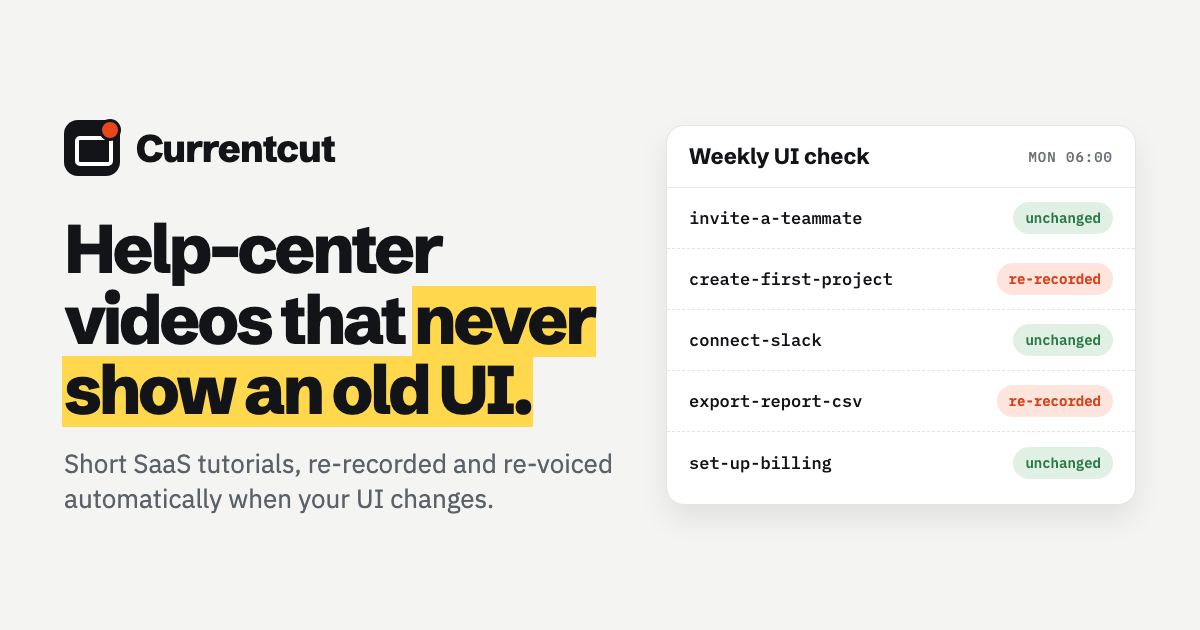
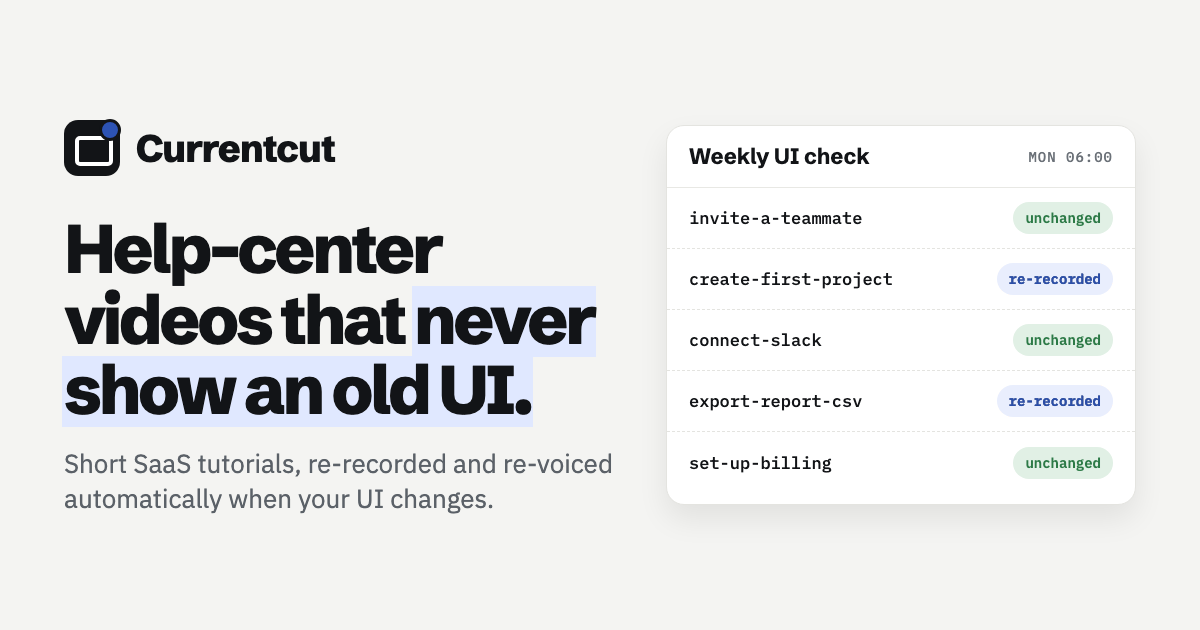
feat: pricing tabs, navy palette, real video in hero, founder section

diff --git a/index.html b/index.html
@@ -28,23 +28,25 @@
 /* Layout: a spec sheet. Mono labels in a narrow left rail, content on the right;
    the hero pairs the promise with a weekly-check report, the product's real output. */
 :root{
-  --paper:#f4f5f2; --sheet:#ffffff; --ink:#121417; --mute:#5a6068; --rule:#dfe1dc;
-  --rec:#e8461b; --rec-ink:#ffffff; --rec-soft:#fde9e2;
+  --paper:#f5f6f8; --sheet:#ffffff; --ink:#0f1524; --mute:#586074; --rule:#dde1e8;
+  --rec:#1f3fae; --rec-ink:#ffffff; --rec-soft:#e7ecfb;
   --ok:#2f7d55; --ok-soft:#e3f1e9; --mark:#ffd84d;
   --f-display:"Schibsted Grotesk","Helvetica Neue",Arial,sans-serif;
   --f-body:"IBM Plex Sans",system-ui,-apple-system,"Segoe UI",sans-serif;
   --f-mono:"IBM Plex Mono",ui-monospace,SFMono-Regular,Menlo,monospace;
   --r:10px;
 }
-@media (prefers-color-scheme: dark){:root:not([data-theme="light"]){
-  --paper:#0f1112; --sheet:#171a1c; --ink:#eceeea; --mute:#9aa1a6; --rule:#2a2e31;
-  --rec:#ff6a3d; --rec-ink:#140804; --rec-soft:#3a1d13; --ok:#6cc596; --ok-soft:#14291e; --mark:#c9a92a;
-  color-scheme:dark}}
 :root[data-theme="dark"]{
-  --paper:#0f1112; --sheet:#171a1c; --ink:#eceeea; --mute:#9aa1a6; --rule:#2a2e31;
-  --rec:#ff6a3d; --rec-ink:#140804; --rec-soft:#3a1d13; --ok:#6cc596; --ok-soft:#14291e; --mark:#c9a92a;
+  --paper:#0d111c; --sheet:#151a28; --ink:#eceef4; --mute:#9aa3b5; --rule:#262d3f;
+  --rec:#8aa4ff; --rec-ink:#0a1020; --rec-soft:#1a2547; --ok:#6cc596; --ok-soft:#14291e; --mark:#c9a92a;
   color-scheme:dark}
 
+.ptabs{display:inline-flex;gap:4px;margin-top:28px;padding:4px;border:1px solid var(--rule);border-radius:999px;background:var(--sheet)}
+.ptabs button{font:600 .92rem var(--f-body);color:var(--mute);background:none;border:0;border-radius:999px;padding:9px 18px;cursor:pointer}
+.ptabs button[aria-selected="true"]{background:var(--ink);color:var(--paper)}
+.js [data-panel][hidden]{display:none}
+.about{display:grid;gap:12px;max-width:44em}
+.about p{color:var(--mute)}
 *{box-sizing:border-box}
 html{scroll-behavior:smooth}
 body{margin:0;background:var(--paper);color:var(--ink);font:400 17px/1.6 var(--f-body);-webkit-font-smoothing:antialiased}
@@ -63,6 +65,10 @@ a{color:inherit}
 
 .btn{display:inline-flex;align-items:center;gap:10px;padding:13px 20px;border-radius:999px;background:var(--rec);color:var(--rec-ink);text-decoration:none;font-weight:600;font-size:.98rem;transition:transform .15s ease}
 .btn:hover{transform:translateY(-1px)}
+.btn:active{transform:translateY(0) scale(.98)}
+.plan{transition:transform .2s ease,box-shadow .2s ease}
+.plan:hover{transform:translateY(-2px);box-shadow:0 18px 36px -24px rgba(0,0,0,.35)}
+.hero-film{box-shadow:0 24px 56px -30px rgba(0,0,0,.45)}
 .btn .dot{width:8px;height:8px;border-radius:50%;background:currentColor}
 .btn.line{background:transparent;color:var(--ink);box-shadow:inset 0 0 0 1.5px var(--rule)}
 .btns{display:flex;flex-wrap:wrap;gap:12px}
@@ -81,8 +87,8 @@ nav .btn{padding:9px 16px;font-size:.9rem}
 .hero{padding-block:72px 64px}
 .hero .wrap{display:grid;grid-template-columns:1.05fr .95fr;gap:56px;align-items:center}
 .hero .sub{font-size:1.18rem;color:var(--mute);max-width:34em;margin-block:22px 30px}
-.hero .facts{display:flex;flex-wrap:wrap;gap:8px 20px;margin-top:26px}
-.hero mark{background:linear-gradient(transparent 58%,var(--mark) 58%);color:inherit;padding:0 .05em}
+.hero .facts{display:flex;flex-wrap:wrap;gap:6px 18px;margin-top:26px;text-transform:none;letter-spacing:0;font-size:.9rem}
+.hero mark{background:none;color:var(--rec);padding:0}
 
 .report{background:var(--sheet);border:1px solid var(--rule);border-radius:14px;box-shadow:0 1px 0 var(--rule),0 24px 48px -28px rgba(0,0,0,.35);overflow:hidden;min-width:0}
 .report header{display:flex;justify-content:space-between;align-items:baseline;gap:12px;padding:16px 20px;border-bottom:1px solid var(--rule)}
@@ -202,7 +208,7 @@ footer.site .legal{font:400 .8rem/1.6 var(--f-mono)}
   .steps li{grid-template-columns:1fr;gap:6px}
   .plan{padding:22px}
 }
-@media (prefers-reduced-motion:reduce){html{scroll-behavior:auto}.btn{transition:none}}
+@media (prefers-reduced-motion:reduce){html{scroll-behavior:auto}.btn,.plan{transition:none}.plan:hover{transform:none}}
 </style>
 </head>
 <body>
@@ -211,13 +217,13 @@ footer.site .legal{font:400 .8rem/1.6 var(--f-mono)}
   <a class="logo" href="#top"><i aria-hidden="true"></i>Currentcut</a>
   <div class="links">
     <a href="#demo">Demo</a><a href="#how">How it works</a><a href="#pricing">Pricing</a><a href="#faq">FAQ</a>
-    <a class="btn" href="https://tally.so/r/zEj2Aq?source=site">Get started</a>
+    <a class="btn" href="https://tally.so/r/zEj2Aq?source=site">Get a free sample</a>
   </div>
 </div></nav>
 
 <header class="hero" id="top"><div class="wrap">
   <div>
-    <p class="label">Tutorial videos for B2B SaaS help centers</p>
+    <p class="label">Done-for-you tutorial videos for B2B SaaS help centers</p>
     <h1 style="margin-top:18px">Help-center videos that <mark>never show an old UI.</mark></h1>
     <p class="sub">We make short product tutorials for your help center, then check your UI every week. When a screen changes, we re-record and re-voice the affected videos. You approve. You never record or edit anything.</p>
     <div class="btns">
@@ -227,17 +233,9 @@ footer.site .legal{font:400 .8rem/1.6 var(--f-mono)}
     <div class="facts label"><span>50–90 s per video</span><span>Voice-over synced to clicks</span><span>Written guide included</span></div>
   </div>
 
-  <article class="report" aria-label="Example weekly UI check report">
-    <header><strong>Weekly UI check</strong><span class="label">Example · Mon 06:00 UTC</span></header>
-    <ol>
-      <li><span>invite-a-teammate</span><span class="chip ok">unchanged</span></li>
-      <li><span>create-first-project</span><span class="chip ch">step 3 changed · re-recorded</span></li>
-      <li><span>connect-slack-integration</span><span class="chip ok">unchanged</span></li>
-      <li><span>export-report-as-csv</span><span class="chip ch">button renamed · re-recorded</span></li>
-      <li><span>set-up-billing</span><span class="chip ok">unchanged</span></li>
-    </ol>
-    <footer><span>12 flows checked · 2 changed</span><span>2 approvals sent</span></footer>
-  </article>
+  <figure class="film hero-film" style="margin:0">
+    <video controls preload="metadata" playsinline poster="hero-poster.jpg"><source src="sample-guide.mp4" type="video/mp4">Your browser cannot play this video.</video>
+  </figure>
 </div></header>
 
 <section id="demo"><div class="wrap row">
@@ -247,7 +245,6 @@ footer.site .legal{font:400 .8rem/1.6 var(--f-mono)}
     <p class="lead">First, a tutorial recorded against an earlier version of an app. Then the same video after the interface changed and Currentcut regenerated it: new screens, new voice-over, no manual work.</p>
     <figure class="film" style="margin-inline:0">
       <video controls preload="metadata" playsinline poster="poster.jpg"><source src="before_after.mp4" type="video/mp4">Your browser cannot play this video.</video>
-      <figcaption><span>Before → after, regenerated automatically</span><span>8.8 min of machine time</span></figcaption>
     </figure>
     <div class="guide-demo">
       <div>
@@ -305,6 +302,11 @@ footer.site .legal{font:400 .8rem/1.6 var(--f-mono)}
     <h2>Start with one project. Keep it current with a plan.</h2>
     <p class="lead">Every scope below is fixed, so you can book with a 3-minute form. Booking takes no payment: we reply within one business day with the flows, the delivery date and the price, and you pay once you have approved that scope, before work starts. A call is optional.</p>
 
+    <div class="ptabs" role="tablist" aria-label="Pricing type">
+      <button type="button" role="tab" aria-selected="true" data-tab="projects">One-off projects</button>
+      <button type="button" role="tab" aria-selected="false" data-tab="plans">Monthly plans</button>
+    </div>
+    <div data-panel="projects">
     <h3 class="group">One-off projects</h3>
     <div class="plans four">
       <div class="plan">
@@ -382,6 +384,8 @@ footer.site .legal{font:400 .8rem/1.6 var(--f-mono)}
       </div>
     </div>
 
+    </div>
+    <div data-panel="plans">
     <h3 class="group">Plans: we keep your library current</h3>
     <div class="plans three">
       <div class="plan">
@@ -445,6 +449,8 @@ footer.site .legal{font:400 .8rem/1.6 var(--f-mono)}
       </div>
     </div>
 
+    </div>
+
     <div class="addons">
       <h3 class="group">Add-ons</h3>
       <dl class="alloc">
@@ -480,12 +486,21 @@ footer.site .legal{font:400 .8rem/1.6 var(--f-mono)}
   </div>
 </div></section>
 
+<section id="about"><div class="wrap row">
+  <p class="label">Who you work with</p>
+  <div class="about">
+    <h2>One person, one point of contact.</h2>
+    <p>Hi, I'm Oğuzcan. I build and run Currentcut myself, so you talk to the person who records your videos, not a ticket queue. I wrote the pipeline that records, checks and re-voices the flows; you give me a demo account and approve the results.</p>
+    <p>Not sure yet? The free sample costs nothing and needs no login: you see the quality before sharing anything. Or <a href="https://cal.com/oguzcan-karaman-fwmsln/currentcut-intro">book a 15-minute call</a>.</p>
+  </div>
+</div></section>
+
 <section class="final"><div class="wrap">
   <div>
     <h2>See it on your own product.</h2>
     <p>Tell us about your help center in a 3-minute form. We reply within one business day with a free sample idea, the first flows and a clear scope. Prefer to talk? <a href="https://cal.com/oguzcan-karaman-fwmsln/currentcut-intro">Book a 15-min call</a>.</p>
   </div>
-  <a class="btn" href="https://tally.so/r/zEj2Aq?source=site"><span class="dot" aria-hidden="true"></span>Get started</a>
+  <a class="btn" href="https://tally.so/r/zEj2Aq?source=site"><span class="dot" aria-hidden="true"></span>Get a free sample</a>
 </div></section>
 
 <footer class="site"><div class="wrap">
@@ -494,5 +509,13 @@ footer.site .legal{font:400 .8rem/1.6 var(--f-mono)}
   <div class="legal">Oğuzcan Karaman<br>Çankaya, Ankara, Türkiye<br><span>oguz@currentcut.app</span><br>© 2026 Currentcut</div>
 </div></footer>
 
+<script>
+(function(){document.documentElement.classList.add('js');
+var tabs=document.querySelectorAll('.ptabs button'),panels=document.querySelectorAll('[data-panel]');
+function show(n){tabs.forEach(function(b){b.setAttribute('aria-selected',String(b.dataset.tab===n))});
+panels.forEach(function(p){p.hidden=p.dataset.panel!==n})}
+tabs.forEach(function(b){b.addEventListener('click',function(){show(b.dataset.tab)})});
+if(tabs.length)show('projects')})();
+</script>
 </body>
 </html>
